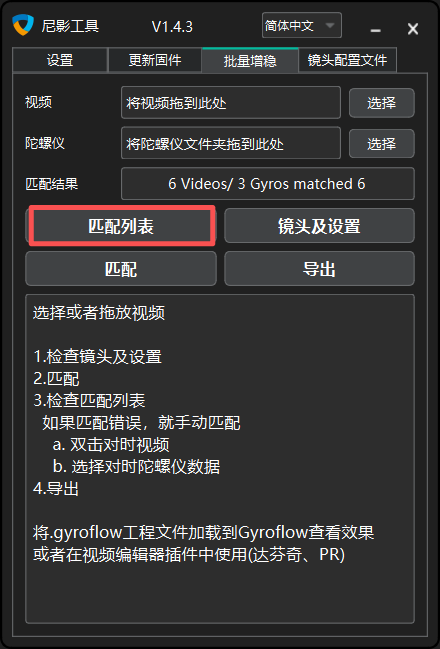
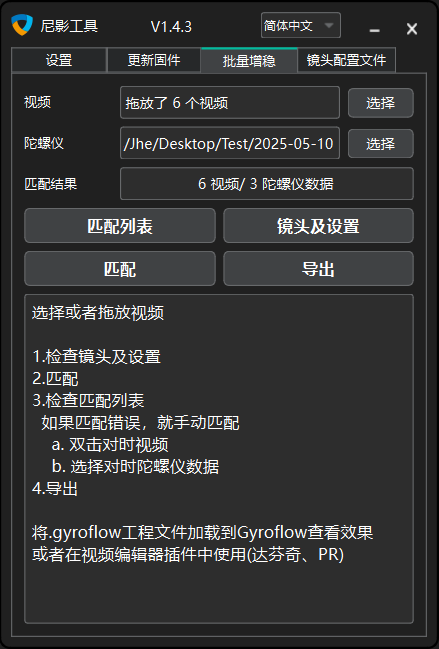
update

diff --git a/FAQ/FAQ_en.html b/FAQ/FAQ_en.html
@@ -1710,7 +1710,7 @@ a img {
 </style><title>FAQ_en</title>
 </head>
 <body class='typora-export os-windows typora-export-show-outline typora-export-no-collapse-outline'><div class='typora-export-content'>
-<div class="typora-export-sidebar"><div class="outline-content"><li class="outline-item-wrapper outline-h1"><div class="outline-item"><span class="outline-expander"></span><a class="outline-label" href="#frequently-asked-questions">Frequently Asked Questions</a></div><ul class="outline-children"><li class="outline-item-wrapper outline-h2"><div class="outline-item"><span class="outline-expander"></span><a class="outline-label" href="#1-installation-direction">1. Installation Direction</a></div><ul class="outline-children"></ul></li><li class="outline-item-wrapper outline-h2"><div class="outline-item"><span class="outline-expander"></span><a class="outline-label" href="#2-macos-processing-issues">2. macOS Processing Issues</a></div><ul class="outline-children"></ul></li><li class="outline-item-wrapper outline-h2"><div class="outline-item"><span class="outline-expander"></span><a class="outline-label" href="#3-time-sync-operation">3. Time Sync Operation</a></div><ul class="outline-children"></ul></li><li class="outline-item-wrapper outline-h2"><div class="outline-item"><span class="outline-expander"></span><a class="outline-label" href="#4-manual-time-sync">4. Manual Time Sync</a></div><ul class="outline-children"></ul></li><li class="outline-item-wrapper outline-h2"><div class="outline-item"><span class="outline-expander"></span><a class="outline-label" href="#5-forgot-time-sync">5. Forgot Time Sync </a></div><ul class="outline-children"></ul></li><li class="outline-item-wrapper outline-h2"><div class="outline-item"><span class="outline-expander"></span><a class="outline-label" href="#6-some-videos-cannot-be-processed">6. Some Videos Cannot Be Processed</a></div><ul class="outline-children"></ul></li><li class="outline-item-wrapper outline-h2"><div class="outline-item"><span class="outline-expander"></span><a class="outline-label" href="#7-sync-failed-for-some-videos">7. Sync Failed for Some Videos</a></div><ul class="outline-children"></ul></li><li class="outline-item-wrapper outline-h2"><div class="outline-item"><span class="outline-expander"></span><a class="outline-label" href="#8-jello-effect-in-footage">8. Jello Effect in Footage</a></div><ul class="outline-children"></ul></li><li class="outline-item-wrapper outline-h2"><div class="outline-item"><span class="outline-expander"></span><a class="outline-label" href="#9-firmware-update-interrupted">9. Firmware Update Interrupted</a></div><ul class="outline-children"></ul></li><li class="outline-item-wrapper outline-h2"><div class="outline-item"><span class="outline-expander"></span><a class="outline-label" href="#10-nikon-r3d--canon-crm-format-not-recognized">10. Nikon R3D / Canon CRM Format Not Recognized</a></div><ul class="outline-children"></ul></li><li class="outline-item-wrapper outline-h2"><div class="outline-item"><span class="outline-expander"></span><a class="outline-label" href="#11-first-1-second-of-video-is-shaky">11. First 1 Second of Video is Shaky</a></div><ul class="outline-children"></ul></li><li class="outline-item-wrapper outline-h2"><div class="outline-item"><span class="outline-expander"></span><a class="outline-label" href="#12-adapter-ring-cannot-recognize-focal-length">12. Adapter Ring Cannot Recognize Focal Length</a></div><ul class="outline-children"></ul></li><li class="outline-item-wrapper outline-h2"><div class="outline-item"><span class="outline-expander"></span><a class="outline-label" href="#13-encoding-not-supported">13. Encoding Not Supported</a></div><ul class="outline-children"></ul></li></ul></li></div></div><div id='write'  class=''><h1 id='frequently-asked-questions'><span>Frequently Asked Questions</span></h1><h2 id='1-installation-direction'><span>1. Installation Direction</span></h2><p><strong><span>Note</span></strong><span>: The device can be installed horizontally or vertically, with the indicator light facing forward. </span></p><p><span>📺 </span><a href='https://youtu.be/dmz-ChUiyMk'><span>Installation Guide Video</span></a></p><hr /><h2 id='2-macos-processing-issues'><span>2. macOS Processing Issues</span></h2><p><strong><span>Symptom</span></strong><span>: NiYien Tool exits quickly or prompts that the correct Gyroflow version is not installed</span></p><p><strong><span>Solution</span></strong><span>: Reinstall the Gyroflow Nightly Build version and ensure it is installed in the </span><strong><span>Applications</span></strong><span> folder</span></p><hr /><h2 id='3-time-sync-operation'><span>3. Time Sync Operation</span></h2><p><strong><span>Note</span></strong><span>: Time synchronization can be performed at the beginning of the day or after all shooting is completed</span></p><hr /><h2 id='4-manual-time-sync'><span>4. Manual Time Sync</span></h2><p><strong><span>Steps</span></strong><span>:</span></p><ol start='' ><li><p><span>Open </span><strong><span>Match List</span></strong><span> in NiYien Tool</span></p></li><li><p><span>Double-click the time sync video</span></p></li><li><p><span>Select the corresponding gyroscope file (recorded simultaneously with the sync video)</span></p></li><li><p><span>Click </span><strong><span>Match</span></strong></p></li></ol><p align="center">
+<div class="typora-export-sidebar"><div class="outline-content"><li class="outline-item-wrapper outline-h1"><div class="outline-item"><span class="outline-expander"></span><a class="outline-label" href="#frequently-asked-questions">Frequently Asked Questions</a></div><ul class="outline-children"><li class="outline-item-wrapper outline-h2"><div class="outline-item"><span class="outline-expander"></span><a class="outline-label" href="#1-installation-direction">1. Installation Direction</a></div><ul class="outline-children"></ul></li><li class="outline-item-wrapper outline-h2"><div class="outline-item"><span class="outline-expander"></span><a class="outline-label" href="#2-macos-processing-issues">2. macOS Processing Issues</a></div><ul class="outline-children"></ul></li><li class="outline-item-wrapper outline-h2"><div class="outline-item"><span class="outline-expander"></span><a class="outline-label" href="#3-time-sync-operation">3. Time Sync Operation</a></div><ul class="outline-children"></ul></li><li class="outline-item-wrapper outline-h2"><div class="outline-item"><span class="outline-expander"></span><a class="outline-label" href="#4-manual-time-sync">4. Manual Time Sync</a></div><ul class="outline-children"></ul></li><li class="outline-item-wrapper outline-h2"><div class="outline-item"><span class="outline-expander"></span><a class="outline-label" href="#5-forgot-time-sync">5. Forgot Time Sync </a></div><ul class="outline-children"></ul></li><li class="outline-item-wrapper outline-h2"><div class="outline-item"><span class="outline-expander"></span><a class="outline-label" href="#6-some-videos-cannot-be-processed">6. Some Videos Cannot Be Processed</a></div><ul class="outline-children"></ul></li><li class="outline-item-wrapper outline-h2"><div class="outline-item"><span class="outline-expander"></span><a class="outline-label" href="#7-sync-failed-for-some-videos">7. Sync Failed for Some Videos</a></div><ul class="outline-children"></ul></li><li class="outline-item-wrapper outline-h2"><div class="outline-item"><span class="outline-expander"></span><a class="outline-label" href="#8-jello-effect-in-footage">8. Jello Effect in Footage</a></div><ul class="outline-children"></ul></li><li class="outline-item-wrapper outline-h2"><div class="outline-item"><span class="outline-expander"></span><a class="outline-label" href="#9-firmware-update-interrupted">9. Firmware Update Interrupted</a></div><ul class="outline-children"></ul></li><li class="outline-item-wrapper outline-h2"><div class="outline-item"><span class="outline-expander"></span><a class="outline-label" href="#10-nikon-r3d--canon-crm-format-not-recognized">10. Nikon R3D / Canon CRM Format Not Recognized</a></div><ul class="outline-children"></ul></li><li class="outline-item-wrapper outline-h2"><div class="outline-item"><span class="outline-expander"></span><a class="outline-label" href="#11-first-1-second-of-video-is-shaky">11. First 1 Second of Video is Shaky</a></div><ul class="outline-children"></ul></li><li class="outline-item-wrapper outline-h2"><div class="outline-item"><span class="outline-expander"></span><a class="outline-label" href="#12-adapter-ring-cannot-recognize-focal-length">12. Adapter Ring Cannot Recognize Focal Length</a></div><ul class="outline-children"></ul></li><li class="outline-item-wrapper outline-h2"><div class="outline-item"><span class="outline-expander"></span><a class="outline-label" href="#13-encoding-not-supported">13. Encoding Not Supported</a></div><ul class="outline-children"></ul></li></ul></li></div></div><div id='write'  class=''><h1 id='frequently-asked-questions'><span>Frequently Asked Questions</span></h1><h2 id='1-installation-direction'><span>1. Installation Direction</span></h2><p><strong><span>Note</span></strong><span>: The device can be installed horizontally or vertically, with the indicator light facing forward. </span></p><p><span>📺 </span><a href='https://youtu.be/dmz-ChUiyMk'><span>Installation Guide Video</span></a></p><hr /><h2 id='2-macos-processing-issues'><span>2. macOS Processing Issues</span></h2><p><strong><span>Symptom</span></strong><span>: NiYien Tool exits quickly or prompts that the correct Gyroflow version is not installed</span></p><p><strong><span>Solution</span></strong><span>: Reinstall the Gyroflow Nightly Build version and ensure it is installed in the </span><strong><span>Applications</span></strong><span> folder</span></p><hr /><h2 id='3-time-sync-operation'><span>3. Time Sync Operation</span></h2><p><strong><span>Note</span></strong><span>: Time synchronization can be performed at the beginning of the day or after all shooting is completed</span></p><hr /><h2 id='4-manual-time-sync'><span>4. Manual Time Sync</span></h2><p><strong><span>Steps</span></strong><span>:</span></p><ol start='' ><li><p><span>Drag the video and gyro data into the NiYienTool, and do not click Match</span></p></li><li><p><span>Open </span><strong><span>Match List</span></strong><span> in NiYien Tool</span></p></li><li><p><span>Double-click the time sync video</span></p></li><li><p><span>Select the corresponding gyroscope file (recorded simultaneously with the sync video)</span></p></li><li><p><span>Click </span><strong><span>Match</span></strong></p></li></ol><p align="center">
   <img src="en/1.png" width="400" />
 </p>
 <p align="center">

diff --git a/FAQ/FAQ_zh.html b/FAQ/FAQ_zh.html
@@ -1710,7 +1710,7 @@ a img {
 </style><title>FAQ_zh</title>
 </head>
 <body class='typora-export os-windows typora-export-show-outline typora-export-no-collapse-outline'><div class='typora-export-content'>
-<div class="typora-export-sidebar"><div class="outline-content"><li class="outline-item-wrapper outline-h1"><div class="outline-item"><span class="outline-expander"></span><a class="outline-label" href="#常见问题解答">常见问题解答</a></div><ul class="outline-children"><li class="outline-item-wrapper outline-h2"><div class="outline-item"><span class="outline-expander"></span><a class="outline-label" href="#1-安装方向">1. 安装方向</a></div><ul class="outline-children"></ul></li><li class="outline-item-wrapper outline-h2"><div class="outline-item"><span class="outline-expander"></span><a class="outline-label" href="#2-macos-处理异常">2. macOS 处理异常</a></div><ul class="outline-children"></ul></li><li class="outline-item-wrapper outline-h2"><div class="outline-item"><span class="outline-expander"></span><a class="outline-label" href="#3-对时时机">3. 对时时机</a></div><ul class="outline-children"></ul></li><li class="outline-item-wrapper outline-h2"><div class="outline-item"><span class="outline-expander"></span><a class="outline-label" href="#4-手动对时">4. 手动对时</a></div><ul class="outline-children"></ul></li><li class="outline-item-wrapper outline-h2"><div class="outline-item"><span class="outline-expander"></span><a class="outline-label" href="#5-忘记对时">5. 忘记对时</a></div><ul class="outline-children"></ul></li><li class="outline-item-wrapper outline-h2"><div class="outline-item"><span class="outline-expander"></span><a class="outline-label" href="#6-部分视频无法处理">6. 部分视频无法处理</a></div><ul class="outline-children"></ul></li><li class="outline-item-wrapper outline-h2"><div class="outline-item"><span class="outline-expander"></span><a class="outline-label" href="#7-少数视频同步失败">7. 少数视频同步失败</a></div><ul class="outline-children"></ul></li><li class="outline-item-wrapper outline-h2"><div class="outline-item"><span class="outline-expander"></span><a class="outline-label" href="#8-画面出现果冻效应">8. 画面出现果冻效应</a></div><ul class="outline-children"></ul></li><li class="outline-item-wrapper outline-h2"><div class="outline-item"><span class="outline-expander"></span><a class="outline-label" href="#9-固件更新中断">9. 固件更新中断</a></div><ul class="outline-children"></ul></li><li class="outline-item-wrapper outline-h2"><div class="outline-item"><span class="outline-expander"></span><a class="outline-label" href="#10-nikon-r3d--canon-crm-格式无法识别">10. Nikon R3D / Canon CRM 格式无法识别</a></div><ul class="outline-children"></ul></li><li class="outline-item-wrapper outline-h2"><div class="outline-item"><span class="outline-expander"></span><a class="outline-label" href="#11-视频前-1-秒晃动">11. 视频前 1 秒晃动</a></div><ul class="outline-children"></ul></li><li class="outline-item-wrapper outline-h2"><div class="outline-item"><span class="outline-expander"></span><a class="outline-label" href="#12-转接环无法识别焦距">12. 转接环无法识别焦距</a></div><ul class="outline-children"></ul></li><li class="outline-item-wrapper outline-h2"><div class="outline-item"><span class="outline-expander"></span><a class="outline-label" href="#13-编码不支持提示">13. 编码不支持提示</a></div><ul class="outline-children"></ul></li></ul></li></div></div><div id='write'  class=''><h1 id='常见问题解答'><span>常见问题解答</span></h1><h2 id='1-安装方向'><span>1. 安装方向</span></h2><p><strong><span>说明</span></strong><span>：设备可水平或垂直安装，指示灯朝前即可，无需对准光轴。</span></p><p><span>📺 </span><a href='https://www.bilibili.com/video/BV1rNuxz7E3L/?share_source=copy_web&amp;vd_source=9039f2a1a91b9a9564adfa3b14e29c78'><span>安装位置说明视频</span></a></p><hr /><h2 id='2-macos-处理异常'><span>2. macOS 处理异常</span></h2><p><strong><span>现象</span></strong><span>：NiYien Tool 处理时快速结束，或提示 Gyroflow 版本不正确</span></p><p><strong><span>解决</span></strong><span>：重新安装 Gyroflow Nightly Build 版本，并确保安装至 </span><strong><span>Applications</span></strong><span> 文件夹</span></p><hr /><h2 id='3-对时时机'><span>3. 对时时机</span></h2><p><strong><span>说明</span></strong><span>：对时可在拍摄当天开始时进行，也可在全部拍摄完成后进行</span></p><hr /><h2 id='4-手动对时'><span>4. 手动对时</span></h2><p><strong><span>操作步骤</span></strong><span>：</span></p><ol start='' ><li><p><span>打开 NiYien Tool 的 </span><strong><span>Match List</span></strong></p></li><li><p><span>双击需要对时的视频</span></p></li><li><p><span>选择对应的陀螺仪文件（与对时视频同步录制）</span></p></li><li><p><span>点击 </span><strong><span>匹配</span></strong></p></li></ol><p align="center">
+<div class="typora-export-sidebar"><div class="outline-content"><li class="outline-item-wrapper outline-h1"><div class="outline-item"><span class="outline-expander"></span><a class="outline-label" href="#常见问题解答">常见问题解答</a></div><ul class="outline-children"><li class="outline-item-wrapper outline-h2"><div class="outline-item"><span class="outline-expander"></span><a class="outline-label" href="#1-安装方向">1. 安装方向</a></div><ul class="outline-children"></ul></li><li class="outline-item-wrapper outline-h2"><div class="outline-item"><span class="outline-expander"></span><a class="outline-label" href="#2-macos-处理异常">2. macOS 处理异常</a></div><ul class="outline-children"></ul></li><li class="outline-item-wrapper outline-h2"><div class="outline-item"><span class="outline-expander"></span><a class="outline-label" href="#3-对时时机">3. 对时时机</a></div><ul class="outline-children"></ul></li><li class="outline-item-wrapper outline-h2"><div class="outline-item"><span class="outline-expander"></span><a class="outline-label" href="#4-手动对时">4. 手动对时</a></div><ul class="outline-children"></ul></li><li class="outline-item-wrapper outline-h2"><div class="outline-item"><span class="outline-expander"></span><a class="outline-label" href="#5-忘记对时">5. 忘记对时</a></div><ul class="outline-children"></ul></li><li class="outline-item-wrapper outline-h2"><div class="outline-item"><span class="outline-expander"></span><a class="outline-label" href="#6-部分视频无法处理">6. 部分视频无法处理</a></div><ul class="outline-children"></ul></li><li class="outline-item-wrapper outline-h2"><div class="outline-item"><span class="outline-expander"></span><a class="outline-label" href="#7-少数视频同步失败">7. 少数视频同步失败</a></div><ul class="outline-children"></ul></li><li class="outline-item-wrapper outline-h2"><div class="outline-item"><span class="outline-expander"></span><a class="outline-label" href="#8-画面出现果冻效应">8. 画面出现果冻效应</a></div><ul class="outline-children"></ul></li><li class="outline-item-wrapper outline-h2"><div class="outline-item"><span class="outline-expander"></span><a class="outline-label" href="#9-固件更新中断">9. 固件更新中断</a></div><ul class="outline-children"></ul></li><li class="outline-item-wrapper outline-h2"><div class="outline-item"><span class="outline-expander"></span><a class="outline-label" href="#10-nikon-r3d--canon-crm-格式无法识别">10. Nikon R3D / Canon CRM 格式无法识别</a></div><ul class="outline-children"></ul></li><li class="outline-item-wrapper outline-h2"><div class="outline-item"><span class="outline-expander"></span><a class="outline-label" href="#11-视频前-1-秒晃动">11. 视频前 1 秒晃动</a></div><ul class="outline-children"></ul></li><li class="outline-item-wrapper outline-h2"><div class="outline-item"><span class="outline-expander"></span><a class="outline-label" href="#12-转接环无法识别焦距">12. 转接环无法识别焦距</a></div><ul class="outline-children"></ul></li><li class="outline-item-wrapper outline-h2"><div class="outline-item"><span class="outline-expander"></span><a class="outline-label" href="#13-编码不支持提示">13. 编码不支持提示</a></div><ul class="outline-children"></ul></li></ul></li></div></div><div id='write'  class=''><h1 id='常见问题解答'><span>常见问题解答</span></h1><h2 id='1-安装方向'><span>1. 安装方向</span></h2><p><strong><span>说明</span></strong><span>：设备可水平或垂直安装，指示灯朝前即可，无需对准光轴。</span></p><p><span>📺 </span><a href='https://www.bilibili.com/video/BV1rNuxz7E3L/?share_source=copy_web&amp;vd_source=9039f2a1a91b9a9564adfa3b14e29c78'><span>安装位置说明视频</span></a></p><hr /><h2 id='2-macos-处理异常'><span>2. macOS 处理异常</span></h2><p><strong><span>现象</span></strong><span>：NiYien Tool 处理时快速结束，或提示 Gyroflow 版本不正确</span></p><p><strong><span>解决</span></strong><span>：重新安装 Gyroflow Nightly Build 版本，并确保安装至 </span><strong><span>Applications</span></strong><span> 文件夹</span></p><hr /><h2 id='3-对时时机'><span>3. 对时时机</span></h2><p><strong><span>说明</span></strong><span>：对时可在拍摄当天开始时进行，也可在全部拍摄完成后进行</span></p><hr /><h2 id='4-手动对时'><span>4. 手动对时</span></h2><p><strong><span>操作步骤</span></strong><span>：</span></p><ol start='' ><li><p><span>将视频和陀螺仪数据拖到尼影工具中，先不点击匹配。</span></p></li><li><p><span>打开尼影工具的 </span><strong><span>匹配列表</span></strong></p></li><li><p><span>双击需要对时的视频</span></p></li><li><p><span>选择对应的陀螺仪文件（与对时视频同步录制）</span></p></li><li><p><span>点击 </span><strong><span>匹配</span></strong></p></li></ol><p align="center">
   <img src="zh/1.png" width="400" />
 </p>
 <p align="center">
